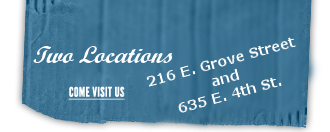
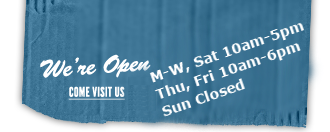
Removed 4th street address in footer.php, updated were-open.png to reflect new shop hours

Changed region(s): [[0.0909, 0.1818, 0.9394, 0.8788]]

diff --git a/wp-content/themes/renobikeproject/footer.php b/wp-content/themes/renobikeproject/footer.php
@@ -6,8 +6,7 @@
 	<div id="footer" class="clr">
 		<span>
 			<strong>&copy; 2010 Reno Bike Project</strong><br />
-			216 E. Grove Street, Reno, Nevada 89502 &nbsp;|&nbsp; Mon-Wed/Sat 10am - 5pm, Thurs/Fri 10am - 6pm, Sun 11am - 4pm &nbsp;|&nbsp; 775-323-4488 &nbsp;&nbsp; <br/>
-			635 E. 4th St., Reno, NV 89512 | Tues-F/Sun 10am - 2pm, Sat 10am - 5pm | 775-499-5386<br/>
+			216 E. Grove Street, Reno, Nevada 89502 &nbsp;|&nbsp; Mon-Wed/Sat 10am - 5pm, Thurs/Fri 10am - 6pm, Closed Sun&nbsp;|&nbsp; 775-323-4488 &nbsp;&nbsp; <br/>
 <a href="http://www.renobikeproject.com/programs-and-events/education/">Ladies' Night: Tues 6pm - 8pm&nbsp;|&nbsp;Bicycle Repair Class: Thurs 6:30pm - 8:30pm</a><br/>
 <a href="http://www.twitter.com/renobikeproject"><img src="<?php bloginfo('template_directory'); ?>/assets/images/twitter32.png"/></a>&nbsp;
 <a href="http://www.renobikeproject.com/rss"><img src="<?php bloginfo('template_directory'); ?>/assets/images/rss32.png"/></a>&nbsp;
